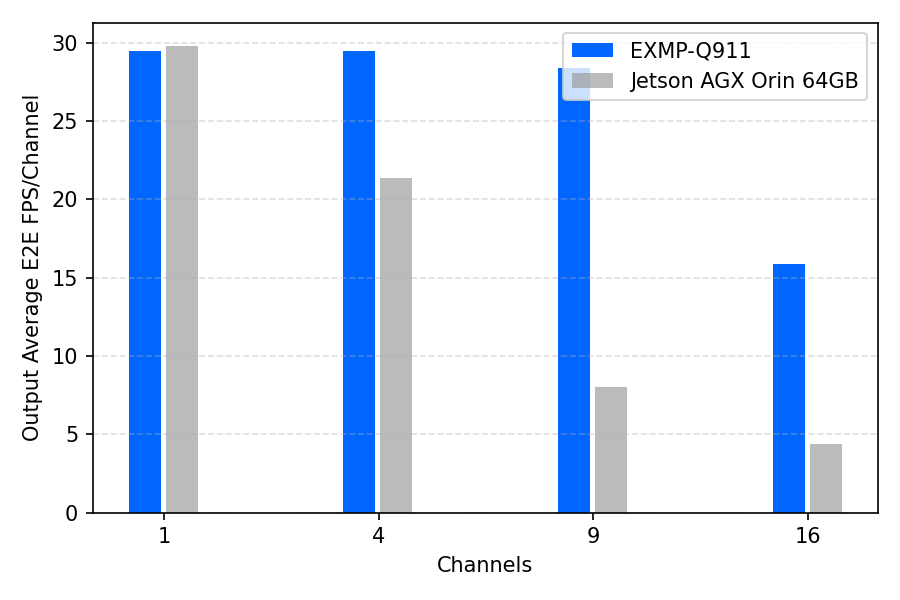
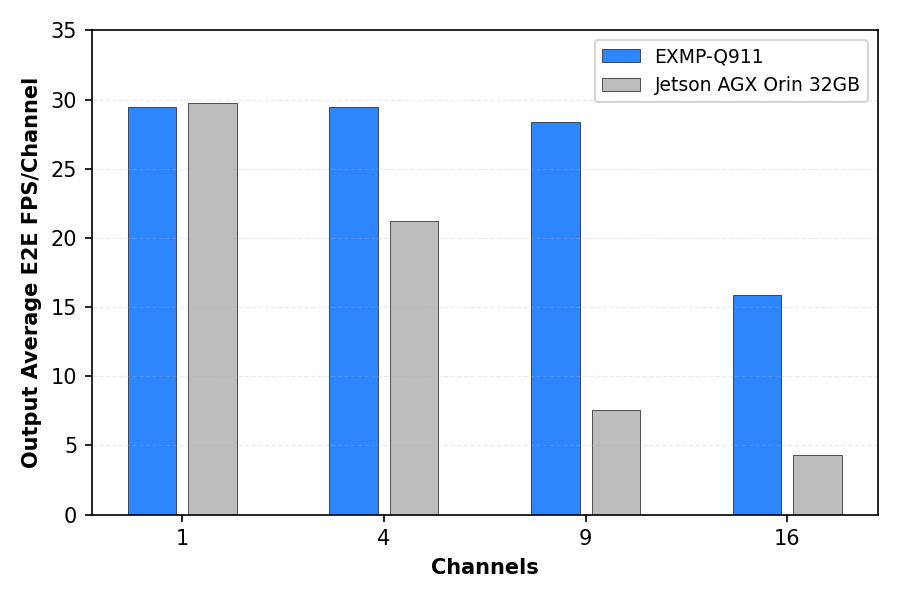
fix: Fix writing errors and correct table errors

Changed region(s): [[0.0, 0.03, 0.9956, 0.93], [0.4667, 0.93, 0.6222, 0.96]]

diff --git a/benchmarks/iqs-streampipe/README.md b/benchmarks/iqs-streampipe/README.md
@@ -8,7 +8,7 @@
 # Multi-stream inference status on Jetson AGX and Qualcomm QCS9075
 
 This topic describes a multi-stream inference benchmark for the iQS-Streampipe
-application on the NVIDIA Jetson AGX Orin 64GB and the EXMP-Q911 platform.
+application on the NVIDIA Jetson AGX Orin 32GB and the EXMP-Q911 platform.
 The purpose is to observe execution behavior as the number of channels
 increases. The results are not intended to be a general hardware performance
 ranking. For live multi-stream inference on the recording platform, please check [here](./fig/nv_qc_live.mp4).
@@ -16,7 +16,7 @@ ranking. For live multi-stream inference on the recording platform, please check
 - Application: [iQS-Streampipe](../../tutorials/applications/iqs-streampipe/README.md)
 - Task: object detection with an INT8 model
 - Input: 1080p, 30 FPS H.264 video streams
-- Platforms: Jetson AGX Orin 64GB, EXMP-Q911 (Qualcomm IQ-9075-based module)
+- Platforms: Jetson AGX Orin 32GB, EXMP-Q911 (Qualcomm IQ-9075-based module)
 - Metrics:
   - Output average end-to-end FPS per channel
   - Average CPU loading (%)
@@ -62,10 +62,10 @@ The benchmark uses two edge AI platforms with the configurations shown below.
 | **EXMP-Q911**                 |      4       |     8     |       180       | Normal         |        51.0          |            8.6              |               29.47                |       32.53        |       30.60        |       30.00        |       29.44        |
 | **EXMP-Q911**                 |      9       |     8     |       180       | Normal         |        93.6          |           12.0              |               28.41                |       59.88        |       37.55        |       29.55        |       24.25        |
 | **EXMP-Q911**                 |      16      |     8     |       180       | Normal         |        99.8          |           17.7              |               15.90                |       44.17        |       24.00        |       16.91        |       12.86        |
-| **NVIDIA Jetson AGX Orin 64GB** |    1       |     8     |       180       | MAXN           |        28.8          |           25.2              |               29.81                |       39.04        |       31.42        |       29.89        |       28.40        |
-| **NVIDIA Jetson AGX Orin 64GB** |    4       |     8     |       180       | MAXN           |        73.4          |           26.2              |               21.34                |       52.27        |       30.44        |       22.52        |       17.15        |
-| **NVIDIA Jetson AGX Orin 64GB** |    9       |     8     |       180       | MAXN           |        91.9          |           27.9              |                8.00                |       19.83        |       11.40        |        8.55        |        6.54        |
-| **NVIDIA Jetson AGX Orin 64GB** |    16      |     8     |       180       | MAXN           |        91.6          |           29.6              |                4.41                |        9.79        |        6.02        |        4.61        |        3.59        |
+| **NVIDIA Jetson AGX Orin 32GB** |    1       |     8     |       180       | MAXN           |        25.3          |           18.8              |               29.78                |       39.78        |       31.28        |       29.82        |       28.55        |
+| **NVIDIA Jetson AGX Orin 32GB** |    4       |     8     |       180       | MAXN           |        72.3          |           20.3              |               21.26                |       52.68        |       30.59        |       22.23        |       17.13        |
+| **NVIDIA Jetson AGX Orin 32GB** |    9       |     8     |       180       | MAXN           |        91.5          |           21.9              |                7.58                |       18.09        |       10.46        |        7.88        |        6.11        |
+| **NVIDIA Jetson AGX Orin 32GB** |    16      |     8     |       180       | MAXN           |        91.7          |           20.1              |                4.29                |        8.86        |        5.75        |        4.46        |        3.54        |
 
 <p align="center">
   <img src="./fig/fps_per_channel.png" width="32%">
@@ -94,7 +94,7 @@ Under the aligned 8-core configuration, both systems show the same pattern:
 as channel count increases and CPU usage approaches saturation, per-channel
 FPS drops from near real-time to lower values. In this workload, near
 real-time FPS per channel is sustained up to 9 channels on EXMP-Q911, while
-on NVIDIA Jetson AGX Orin 64GB the per-channel FPS is already below
+on NVIDIA Jetson AGX Orin 32GB the per-channel FPS is already below
 real-time at higher channel counts as the load increases.
 
 ## Benchmark method
@@ -131,7 +131,7 @@ Below is an overview of how we conduct platform benchmark testing.
    ![output.png](./fig/output_quaclomm.png)
 
 
-### NVIDIA Jetson AGX Orin 64GB procedure
+### NVIDIA Jetson AGX Orin 32GB procedure
 
 1. Download the archive using the following command.
    ```
